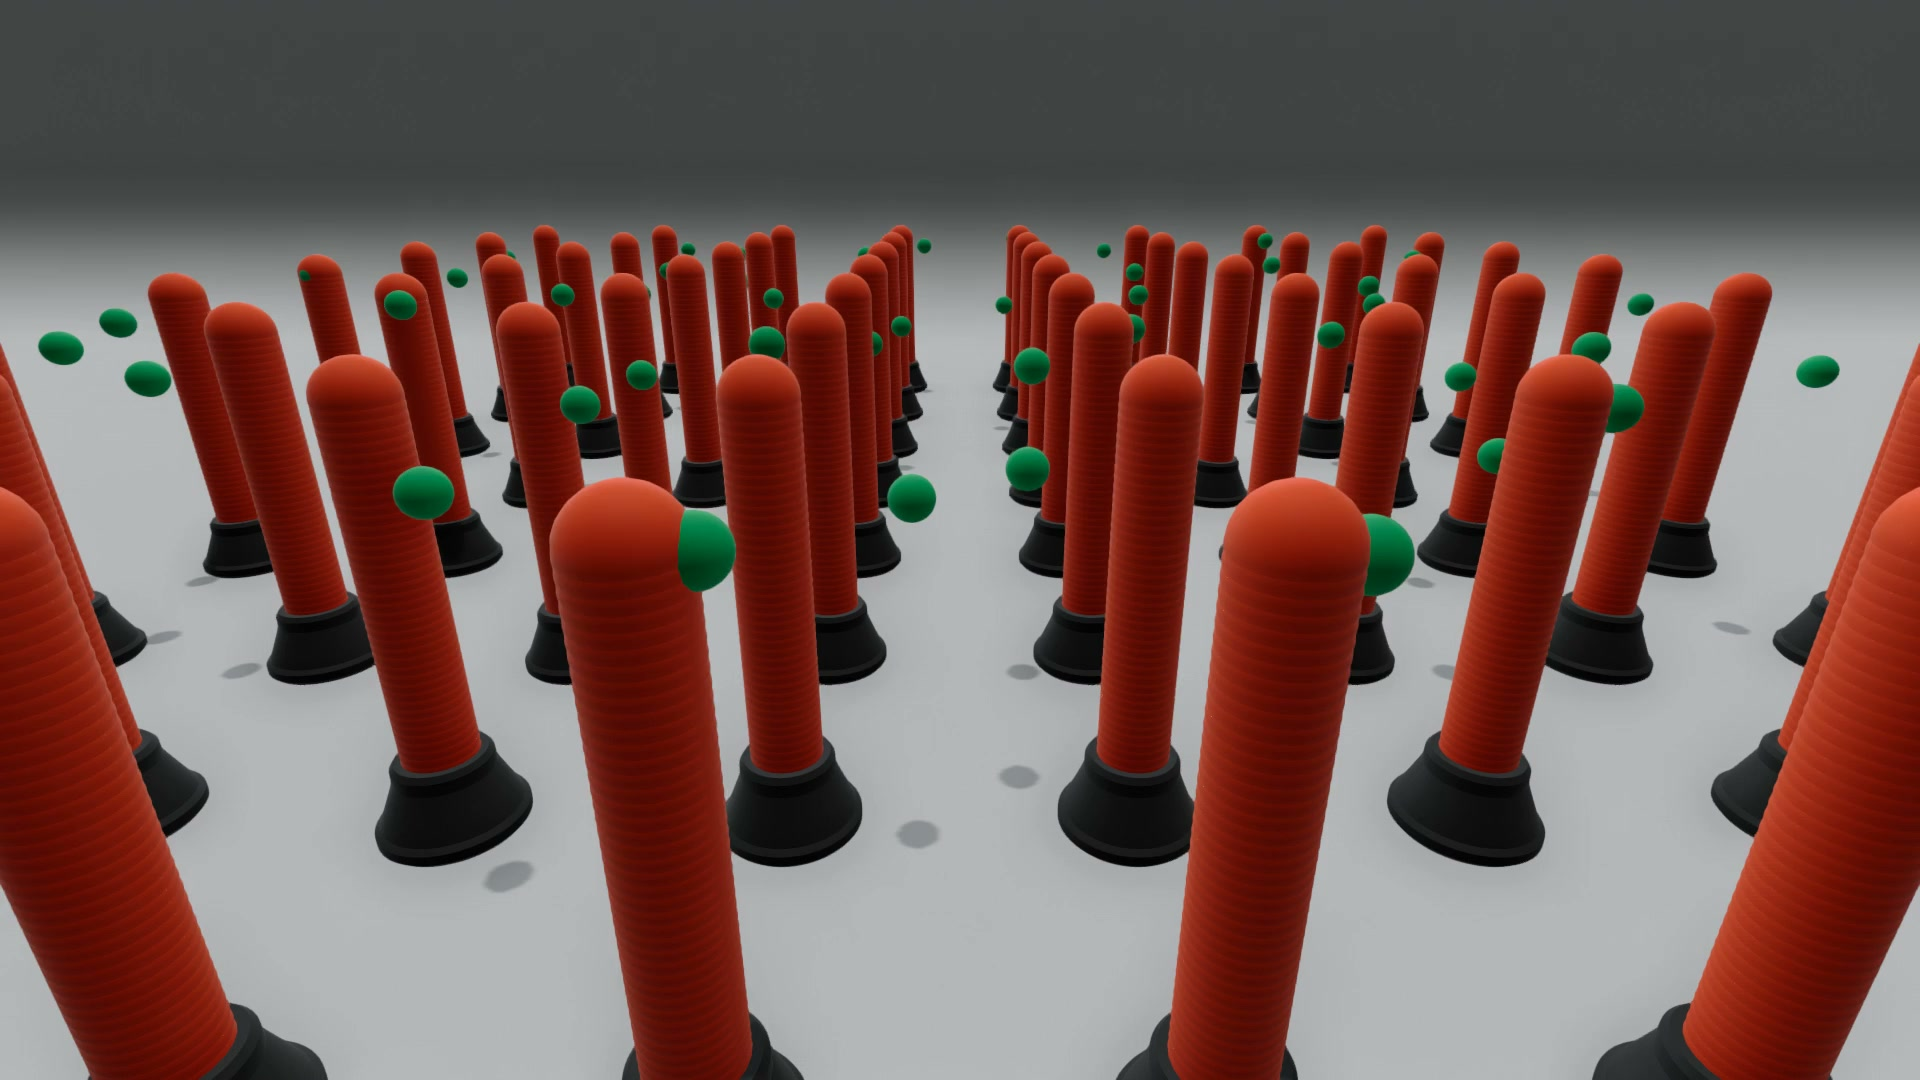
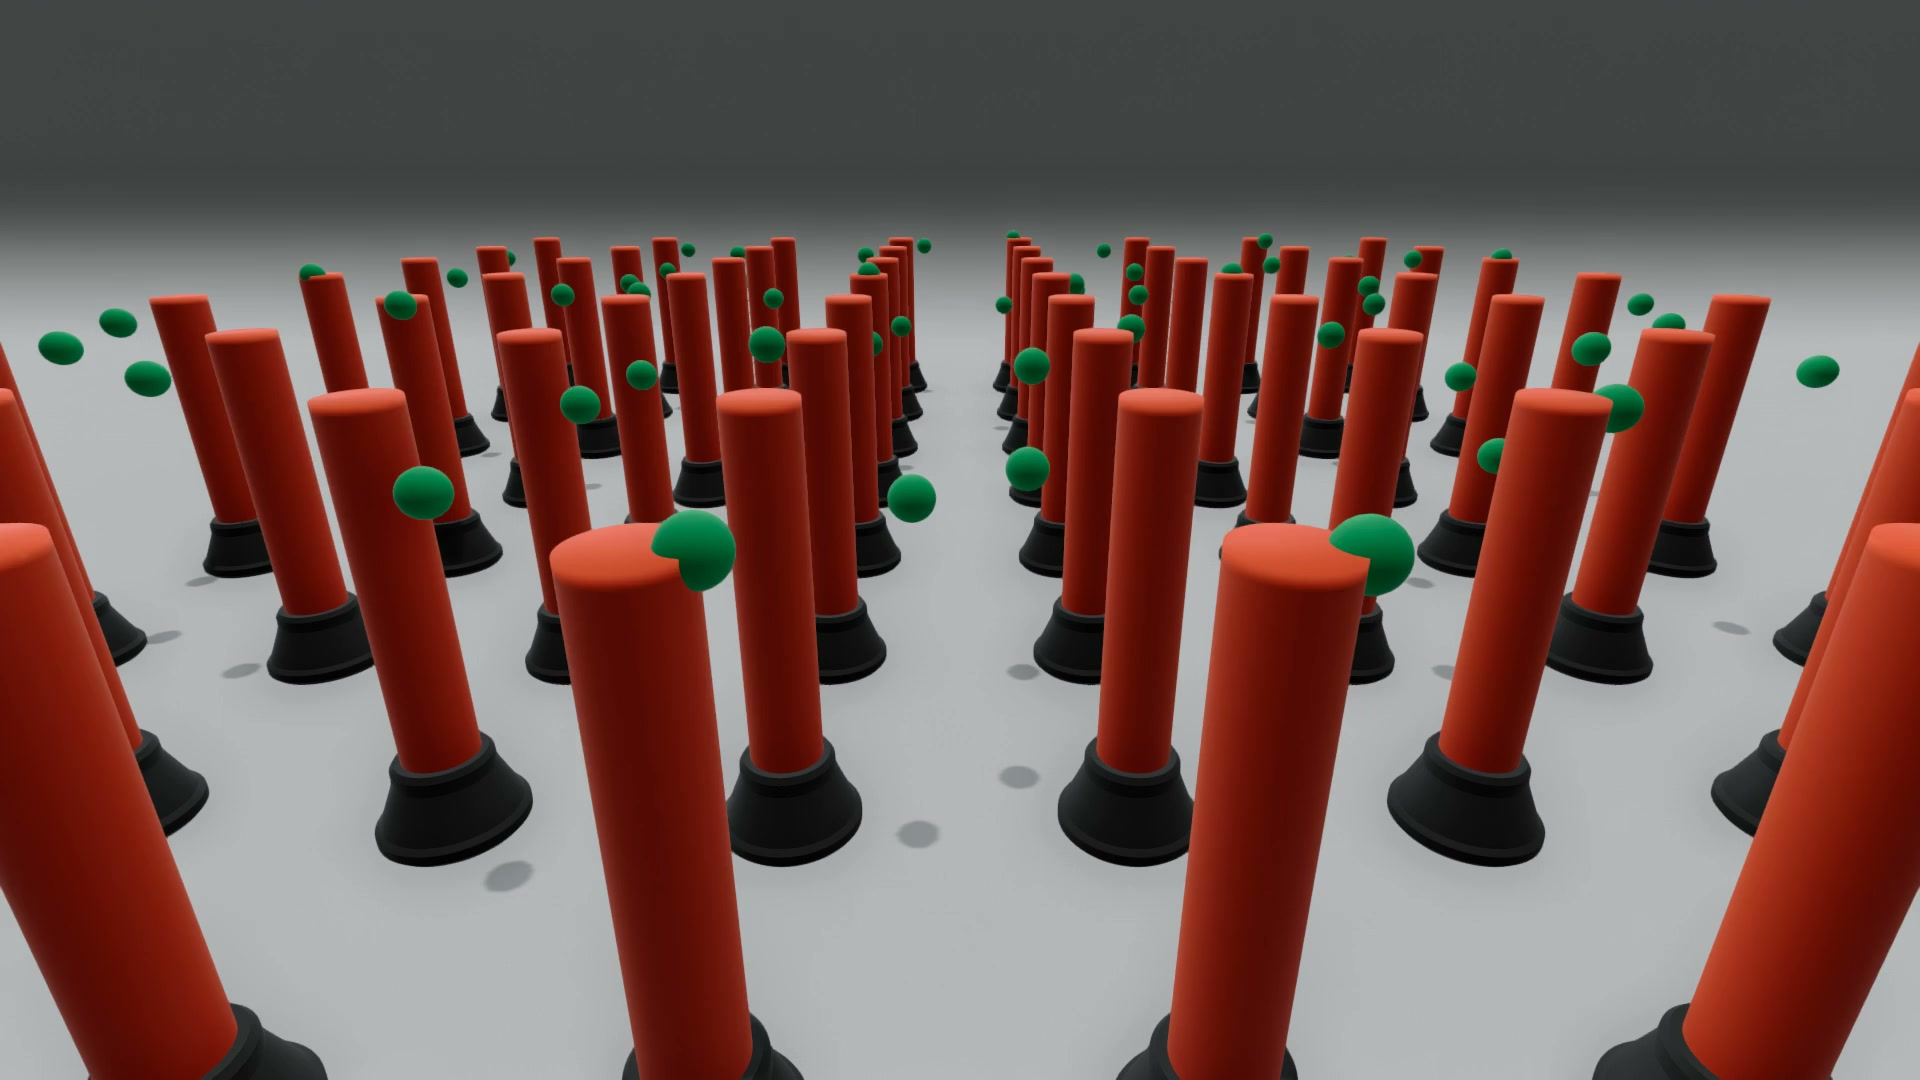
Use swept surfaces for parallel RL renders

diff --git a/paper_results/secVf_parallel_rl/code/render_rl_video.py b/paper_results/secVf_parallel_rl/code/render_rl_video.py
@@ -63,6 +63,7 @@ OUTPUT_DIR = CASE_DIR / "outputs"
 DEFAULT_ARM_LENGTH = 0.25
 DEFAULT_ARM_RADIUS = 0.025
 DEFAULT_GRID_SPACING = 0.24
+BACKBONE_STYLE = "swept"
 PARALLEL_BACKBONE_NUM_POINTS = 40
 GRID_CAMERA_DISTANCE_FACTOR = 5.5
 GRID_FRAME_FILL = 1.12
@@ -432,7 +433,7 @@ def make_grid_offsets(
 
 
 def resolve_backbone_num_points(num_envs: int, override: int | None) -> int:
-    """Use fewer discrete markers for dense grids unless explicitly overridden."""
+    """Use fewer backbone samples for dense grids unless explicitly overridden."""
     if override is not None:
         if override <= 0:
             raise ValueError("--num-points must be positive")
@@ -616,7 +617,7 @@ def render_rollout_to_mp4(
                     rollout.num_envs,
                     args.num_points,
                 ),
-                backbone_style="discrete",
+                backbone_style=BACKBONE_STYLE,
                 actuator_line_width=args.tendon_line_width,
                 grid_spacing=(args.grid_spacing, args.grid_spacing),
             ),

diff --git a/tests/paper_results/secVf/test_render_rl_video_cli.py b/tests/paper_results/secVf/test_render_rl_video_cli.py
@@ -138,6 +138,7 @@ def test_grid_dimensions_require_complete_covering_override():
 
 
 def test_backbone_resolution_keeps_parallel_scene_bounded():
+    assert render_rl_video.BACKBONE_STYLE == "swept"
     assert render_rl_video.resolve_backbone_num_points(1, None) == 80
     assert render_rl_video.resolve_backbone_num_points(64, None) == 40
     assert render_rl_video.resolve_backbone_num_points(64, 60) == 60

diff --git a/paper_results/secVf_parallel_rl/README.md b/paper_results/secVf_parallel_rl/README.md
@@ -113,8 +113,9 @@ Use `--rows` and `--cols` together to override the automatic grid, and
 `--grid-spacing` to change the distance between robot bases. Dotted target paths
 are enabled by default for a single arm and hidden for parallel grids to keep the
 individual robots legible; `--show-trajectory` and `--no-show-trajectory`
-override that choice. Parallel grids use 40 backbone markers per robot while the
-single-arm view uses 80; `--num-points` overrides either default.
+override that choice. Robots are rendered as swept surfaces. Parallel grids use
+40 backbone samples per robot while the single-arm view uses 80;
+`--num-points` overrides either default.
 
 Rollouts default to a 20 second horizon at 15 policy steps per second. When
 `--n-steps` is omitted, it is derived from `--game-time` and `--control-fps` so

diff --git a/docs/research.md b/docs/research.md
@@ -151,7 +151,8 @@ The video shows the trained policy tracking the green target in one environment.
 SoRoMoX can roll out many soft-robot environments in parallel, accelerating the
 experience collection that dominates reinforcement-learning training. The
 20 second animation below visualizes a trained policy acting simultaneously in
-64 independently simulated environments.
+64 independently simulated environments, with each robot rendered as a swept
+surface.
 
 <video class="soromox-video" controls muted loop playsinline preload="metadata" poster="assets/paper/parallel-rl-trained-64-envs-poster.jpg" aria-label="Trained reinforcement-learning policy in 64 parallel soft-robot environments">
   <source src="assets/paper/parallel-rl-trained-64-envs.mp4" type="video/mp4">
